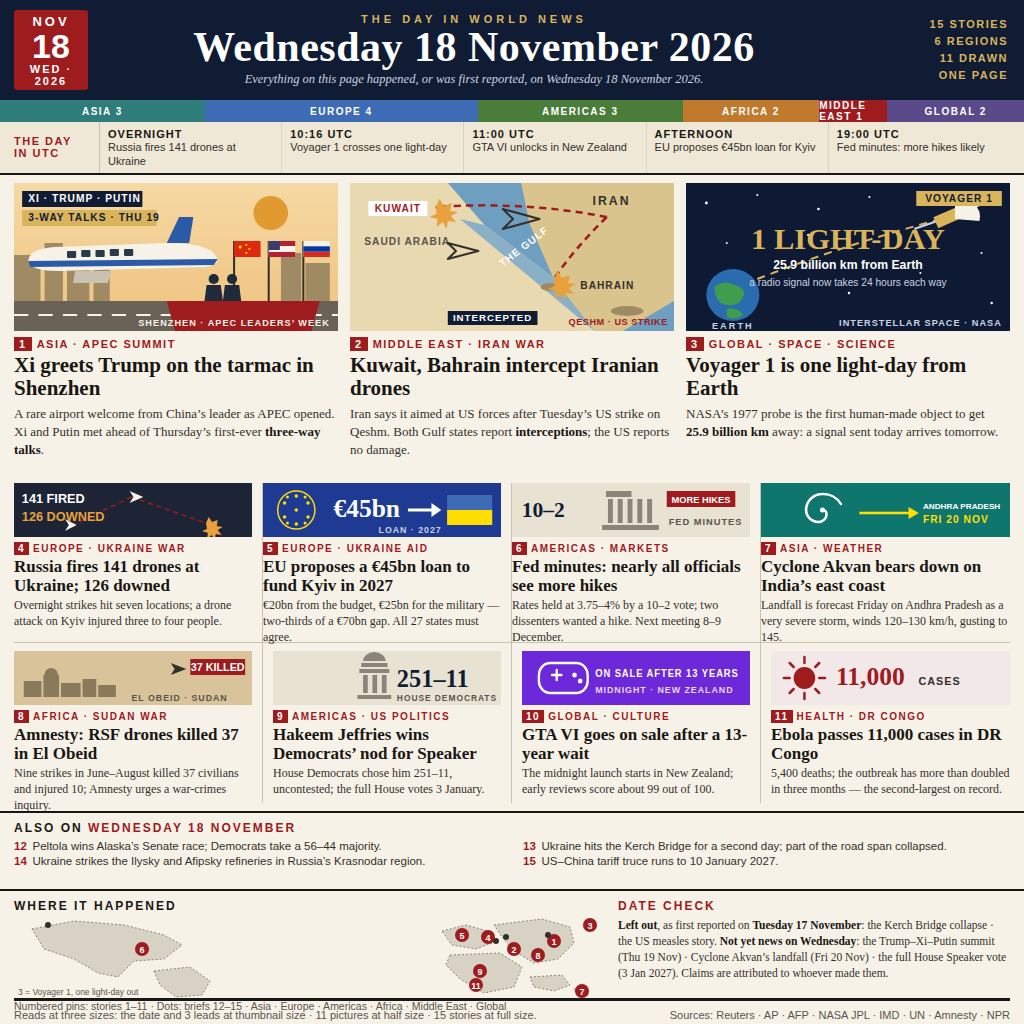
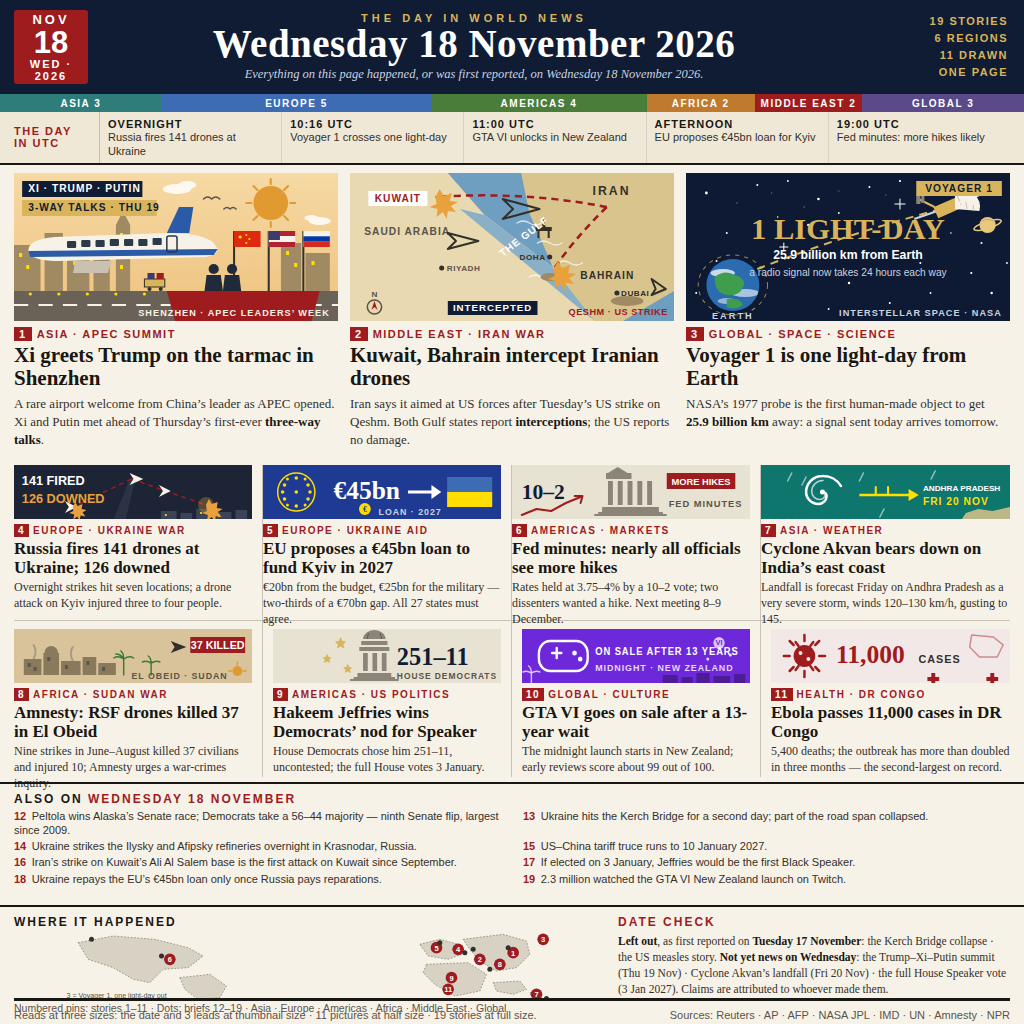
v3: expand briefs strip to 8 briefs (12-19), enrich illustration detail, 19 stories

diff --git a/README.md b/README.md
@@ -6,10 +6,12 @@
 
 Entry for the make.fun bounty [Sum up 18 November's world news in one image](https://make.fun/bounty/news-image-20261118).
 
-A dense newspaper-style image summing up the world's news of Wednesday 18 November 2026 — 15 stories on one page: a navy masthead with the date, a "THE DAY IN UTC" timeline, three illustrated lead stories, eight cards, a numbered briefs strip, a "WHERE IT HAPPENED" map and a "DATE CHECK" footer.
+A dense newspaper-style image summing up the world's news of Wednesday 18 November 2026 — 19 stories on one page: a navy masthead with the date, a "THE DAY IN UTC" timeline, three illustrated lead stories, eight cards, a numbered briefs strip, a "WHERE IT HAPPENED" map and a "DATE CHECK" footer.
 
 Leads: Xi greets Trump on the tarmac in Shenzhen as APEC opens; Kuwait and Bahrain intercept Iranian drones after the US strike on Qeshm Island; Voyager 1 crosses one light-day from Earth. Cards: Russia fires 141 drones at Ukraine (126 downed); the EU proposes a €45bn loan for Kyiv in 2027; Fed minutes point to more hikes; Cyclone Akvan bears down on India's east coast; Amnesty reports 37 killed by RSF drones in El Obeid; Hakeem Jeffries wins the Democrats' Speaker nomination 251–11; GTA VI goes on sale after a 13-year wait; Ebola passes 11,000 cases in DR Congo. Briefs: Peltola wins Alaska's Senate race (56–44); Ukraine hits the Kerch Bridge for a second day; Ukraine strikes the Ilysky and Afipsky refineries; the US–China tariff truce runs to 10 January 2027.
 
 v2 redesign (19 Nov 2026): rebuilt in the dense front-page style the user asked for — timeline strip, detailed flat illustrations per story, numbered briefs, world map and date check — using only verified facts. The image is drawn as a front page and the program copies it to the output directory unchanged.
+
+v3 (19 Nov 2026): briefs strip expanded from 4 to 8 briefs (12–19) with four verified additions; illustration detail enriched across the three leads and all eight cards; counts updated to 19 stories throughout.
 
 Run it with `mkdir -p out && MAKEFUN_OUTPUT_DIR=out node main.ts`. The image is 1024×1024 PNG.
